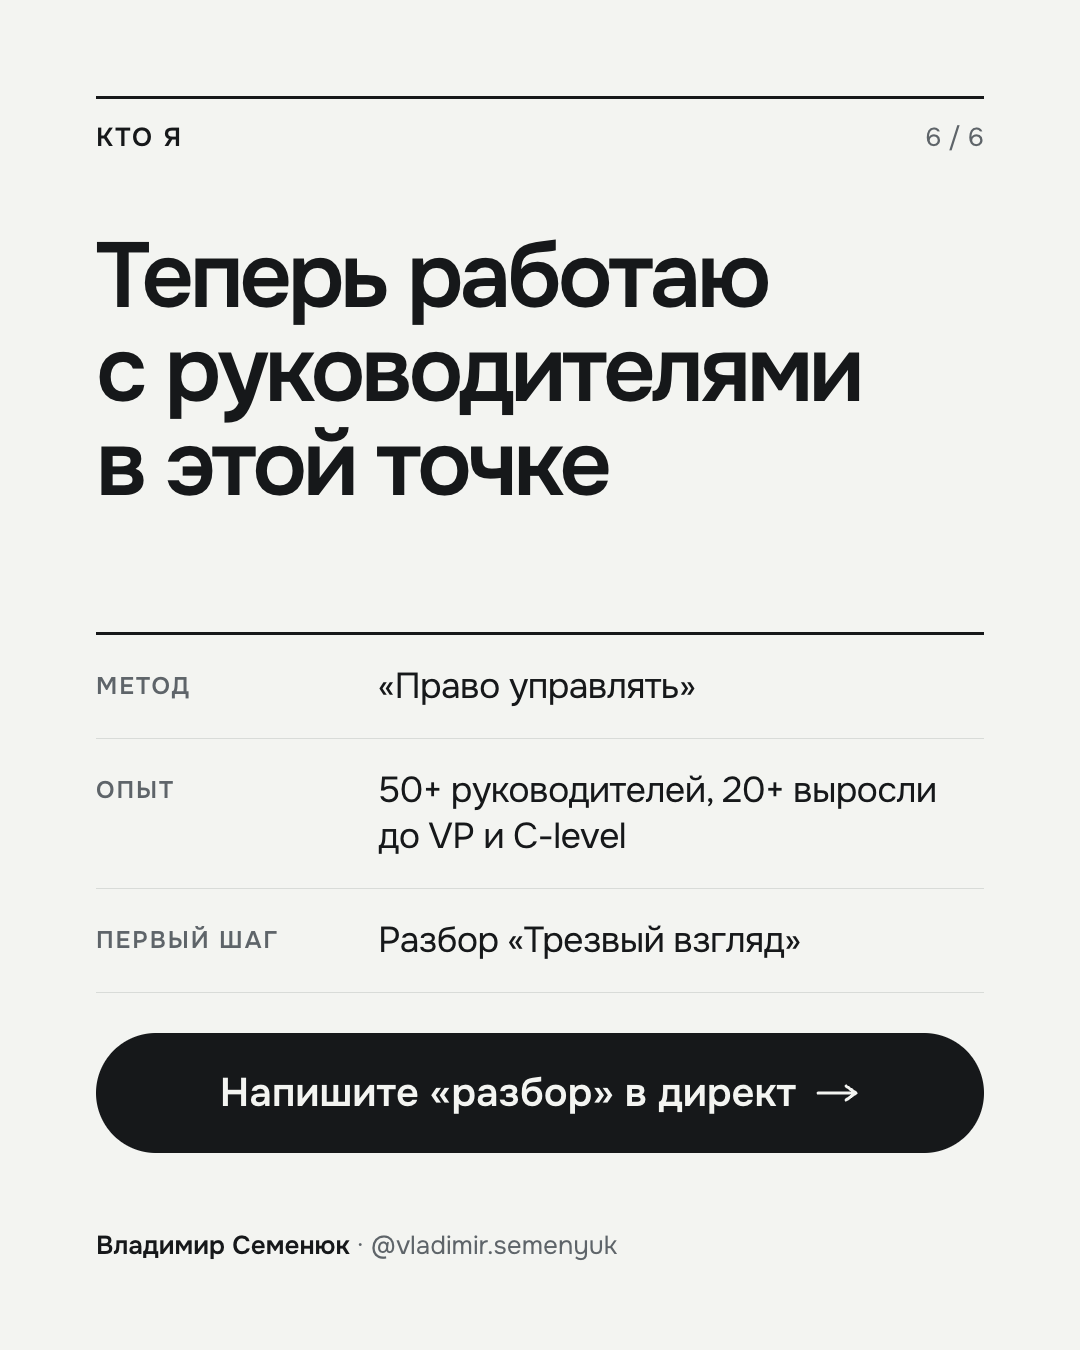
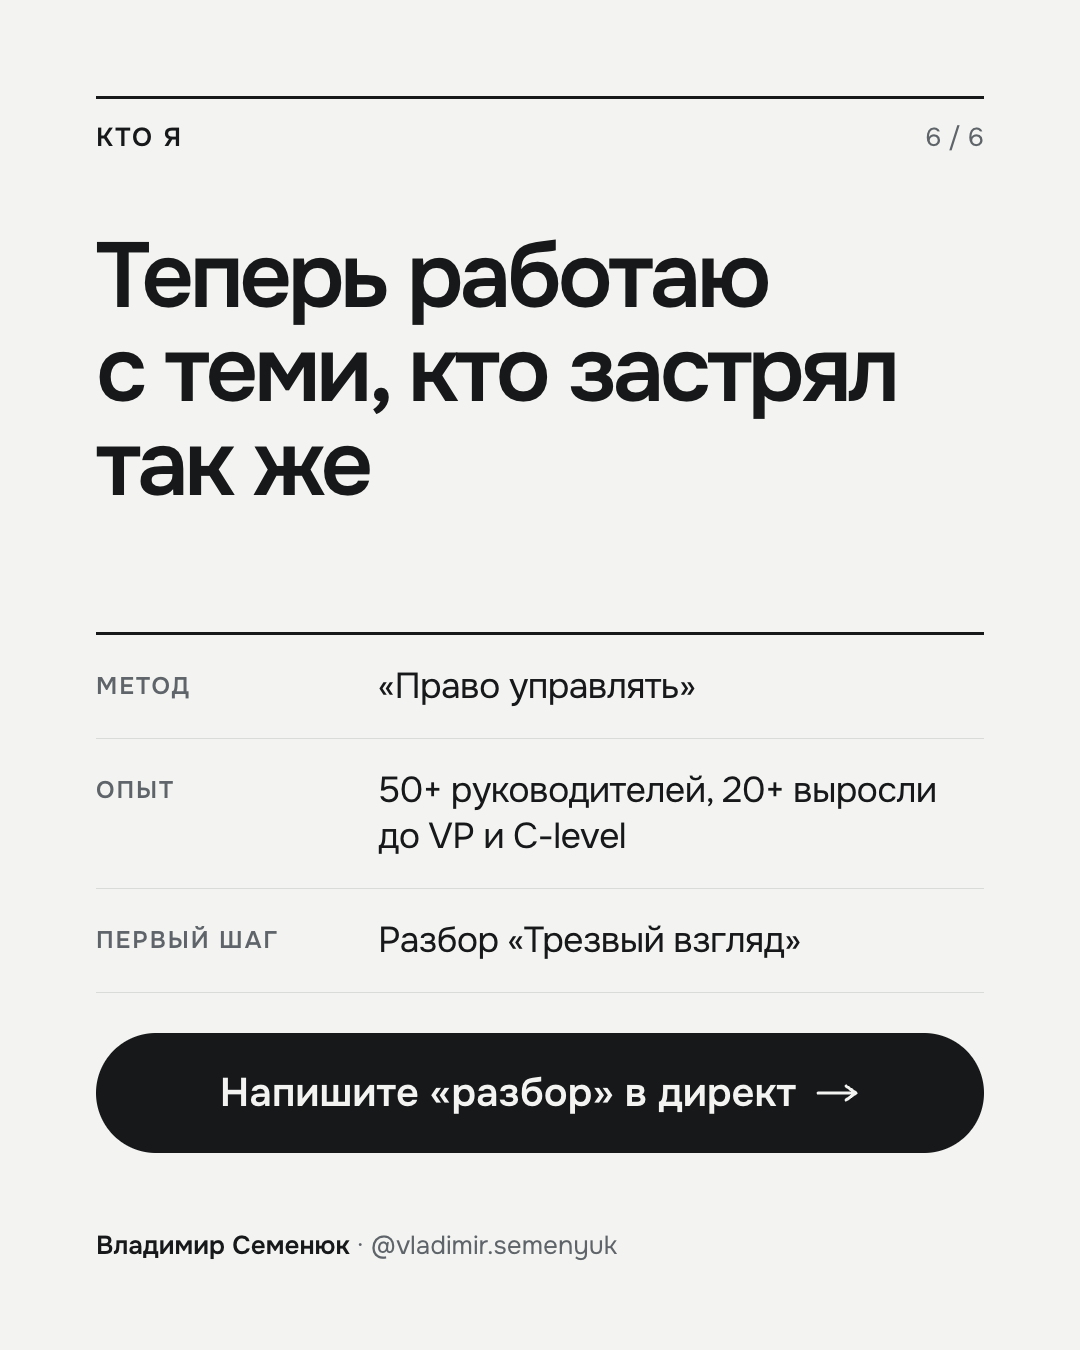
Убрана фраза «в этой точке»: пост «Кто я», BRAND.md, словарь бренда

Changed region(s): [[0.0917, 0.2489, 0.825, 0.3733]]

diff --git a/Personal/BRAND.md b/Personal/BRAND.md
@@ -23,7 +23,7 @@ type: master
 
 **Что это.** Личный бренд ментора для руководителей. Продукт — индивидуальная работа по методу «Право управлять»: метод для руководителей, которые хотят управлять результатом и карьерой.
 
-**Откуда.** Владимир прошёл путь от верстальщика до CTO Нетологии и CIO mos.ru, вёл организацию через рост с 80 до 500 человек. Строил свои бизнесы — AI-стартап и теннисный клуб — и закрыл оба. Метод вырос из того, что он сам несколько раз менял позицию, и из работы с руководителями в такой же точке.
+**Откуда.** Владимир прошёл путь от верстальщика до CTO Нетологии и CIO mos.ru, вёл организацию через рост с 80 до 500 человек. Строил свои бизнесы — AI-стартап и теннисный клуб — и закрыл оба. Метод вырос из того, что он сам несколько раз менял позицию, и из работы с руководителями, которые застряли так же.
 
 **Что на самом деле делает.** Возвращает руководителю позицию автора — в роли, решениях и карьере. Начинает с инструмента под задачу этой недели, доходит до того, что держит самого человека, и заканчивает действием в реальной ситуации.
 
@@ -147,7 +147,7 @@ type: master
 
 Я Владимир Семенюк. Был CTO Нетологии и CIO mos.ru, вёл организацию через рост с 80 до 500 человек. Строил свои бизнесы и закрыл оба. Несколько раз сам упирался в то, что прежний способ работы перестал давать результат.
 
-Работаю с руководителями в этой точке. Мы берём задачу этой недели, я даю под неё инструмент и разбираю, что сработало у меня и почему. Довольно быстро становится видно, что мешает не нехватка знаний.
+Работаю с руководителями, которые упёрлись в то же самое. Мы берём задачу этой недели, я даю под неё инструмент и разбираю, что сработало у меня и почему. Довольно быстро становится видно, что мешает не нехватка знаний.
 
 Тогда я называю то, что держит, и мы находим один неудобный шаг. Без него инструменты остаются знанием, а не практикой.
 
@@ -212,6 +212,7 @@ type: master
 | Первая встреча | разбор «Трезвый взгляд» | консультация, диагностика, бесплатная сессия |
 | Состояние, к которому ведёт метод | позиция автора | осознанность, ресурсное состояние |
 | Клиент | руководитель | лидер, топ, менеджер нового поколения |
+| Ситуация клиента | застрял, упёрся, перестало работать то, что работало раньше | «в этой точке», «в такой же точке» — звучит как инфобизнес или текст нейросети (решение 2026-11-15) |
 | Формат работы | менторинг, разбор | коучинг, коуч-сессия, терапия |
 | Действие между встречами | неудобный шаг | домашнее задание, челлендж |
 | Привычный способ управлять | позиция: герой, проситель, лояльный солдат, хороший парень, наблюдатель | типаж, психотип |

diff --git a/Posts/instagram/2026-11-16-launch/posts.md b/Posts/instagram/2026-11-16-launch/posts.md
@@ -34,7 +34,7 @@ language: ru
 
 Из всего этого я вынес одно. Руководитель застревает не из-за нехватки знаний. Он управляет из позиции прошлого уровня, а ситуация уже другая.
 
-Теперь я работаю с руководителями в этой точке. Метод называется «Право управлять». Берём задачу этой недели, я даю под неё инструмент и рассказываю, что сработало у меня. Потом называю то, что держит, и мы находим один неудобный шаг.
+Теперь я работаю с руководителями, которые застряли так же. Метод называется «Право управлять». Берём задачу этой недели, я даю под неё инструмент и рассказываю, что сработало у меня. Потом называю то, что держит, и мы находим один неудобный шаг.
 
 Если узнали себя — напишите «разбор» в директ.
 ```
